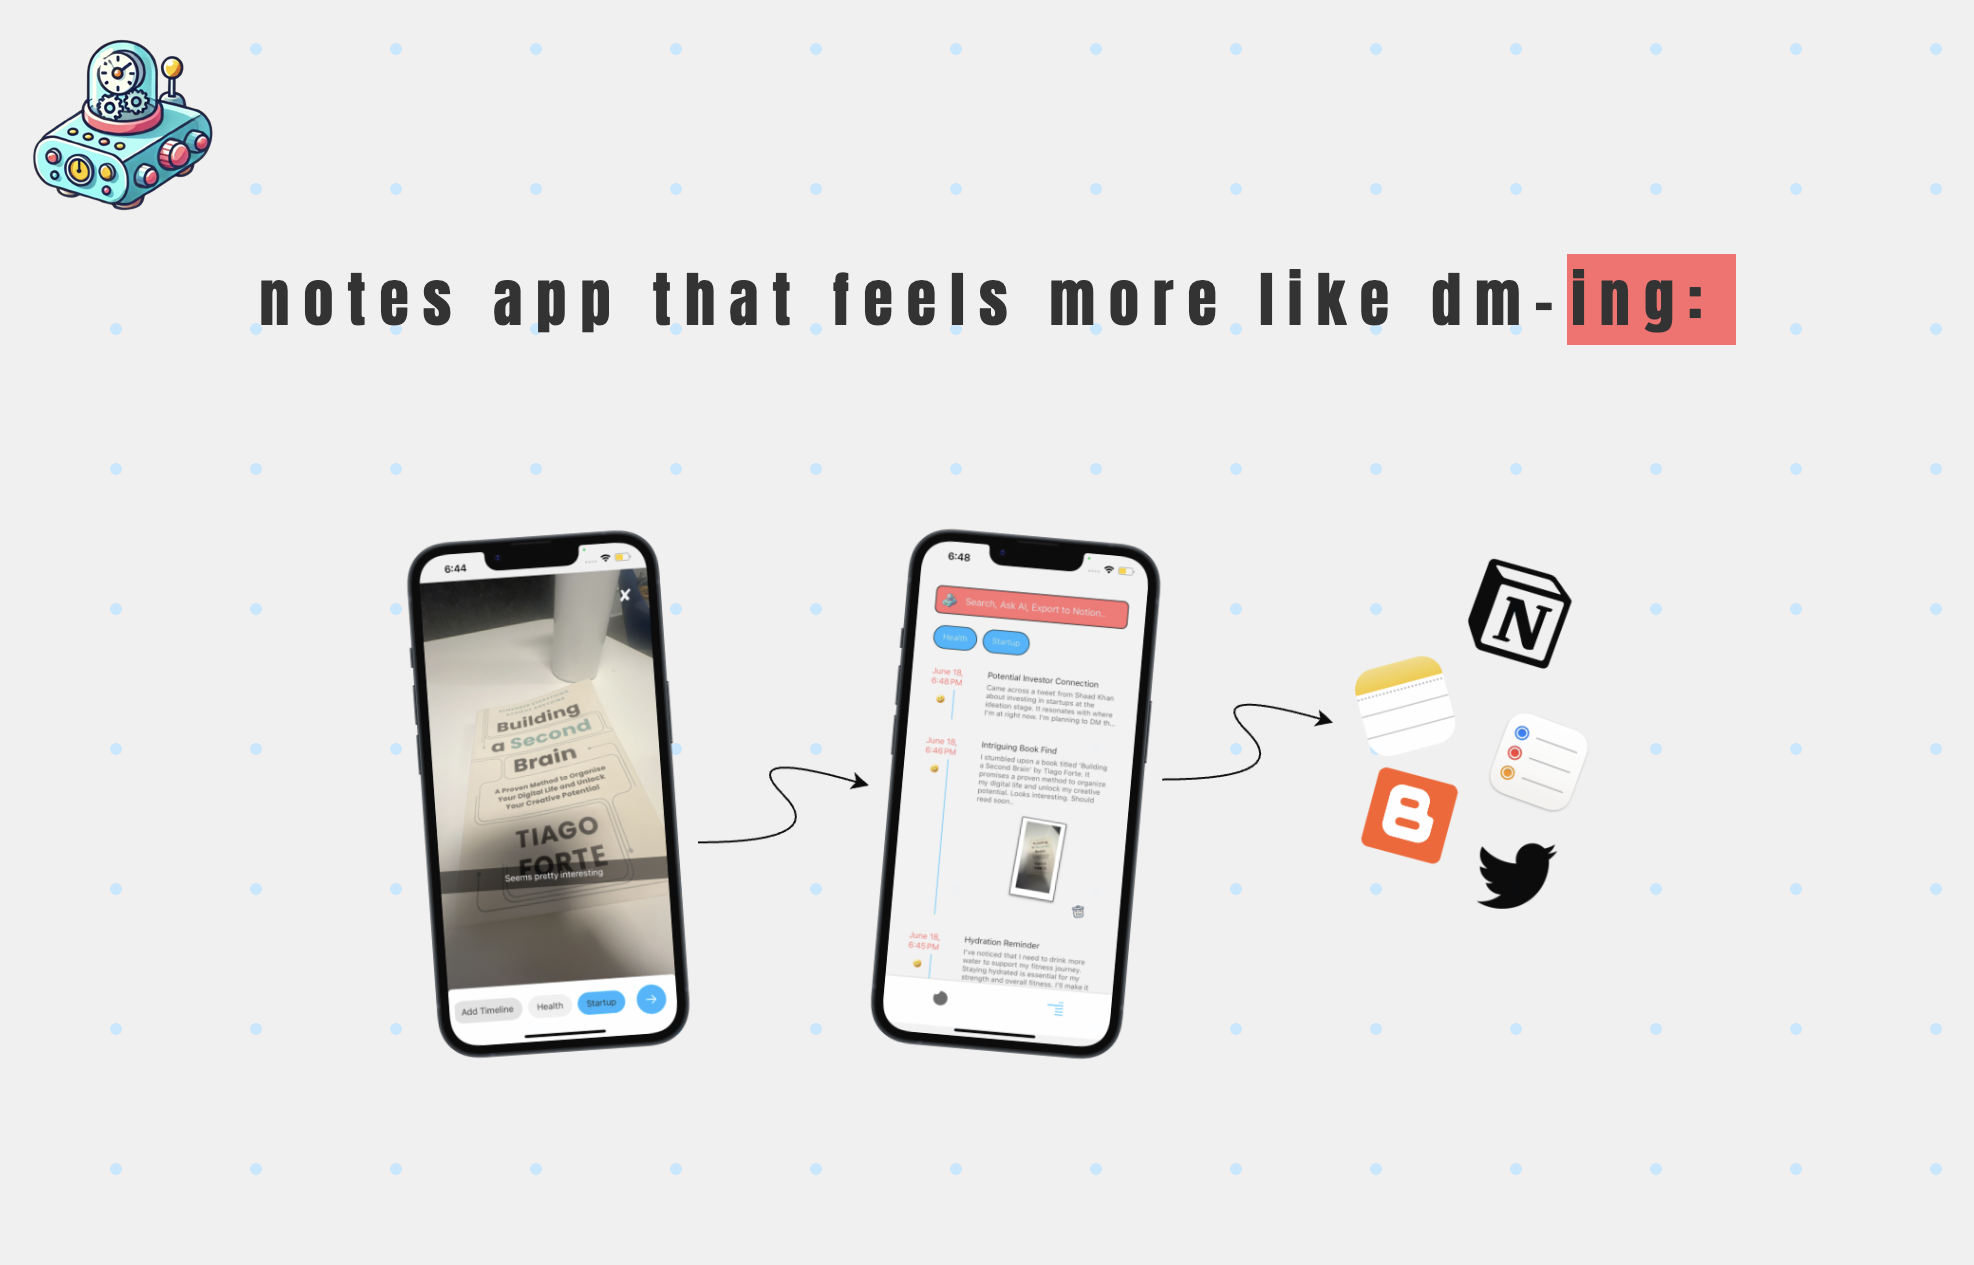
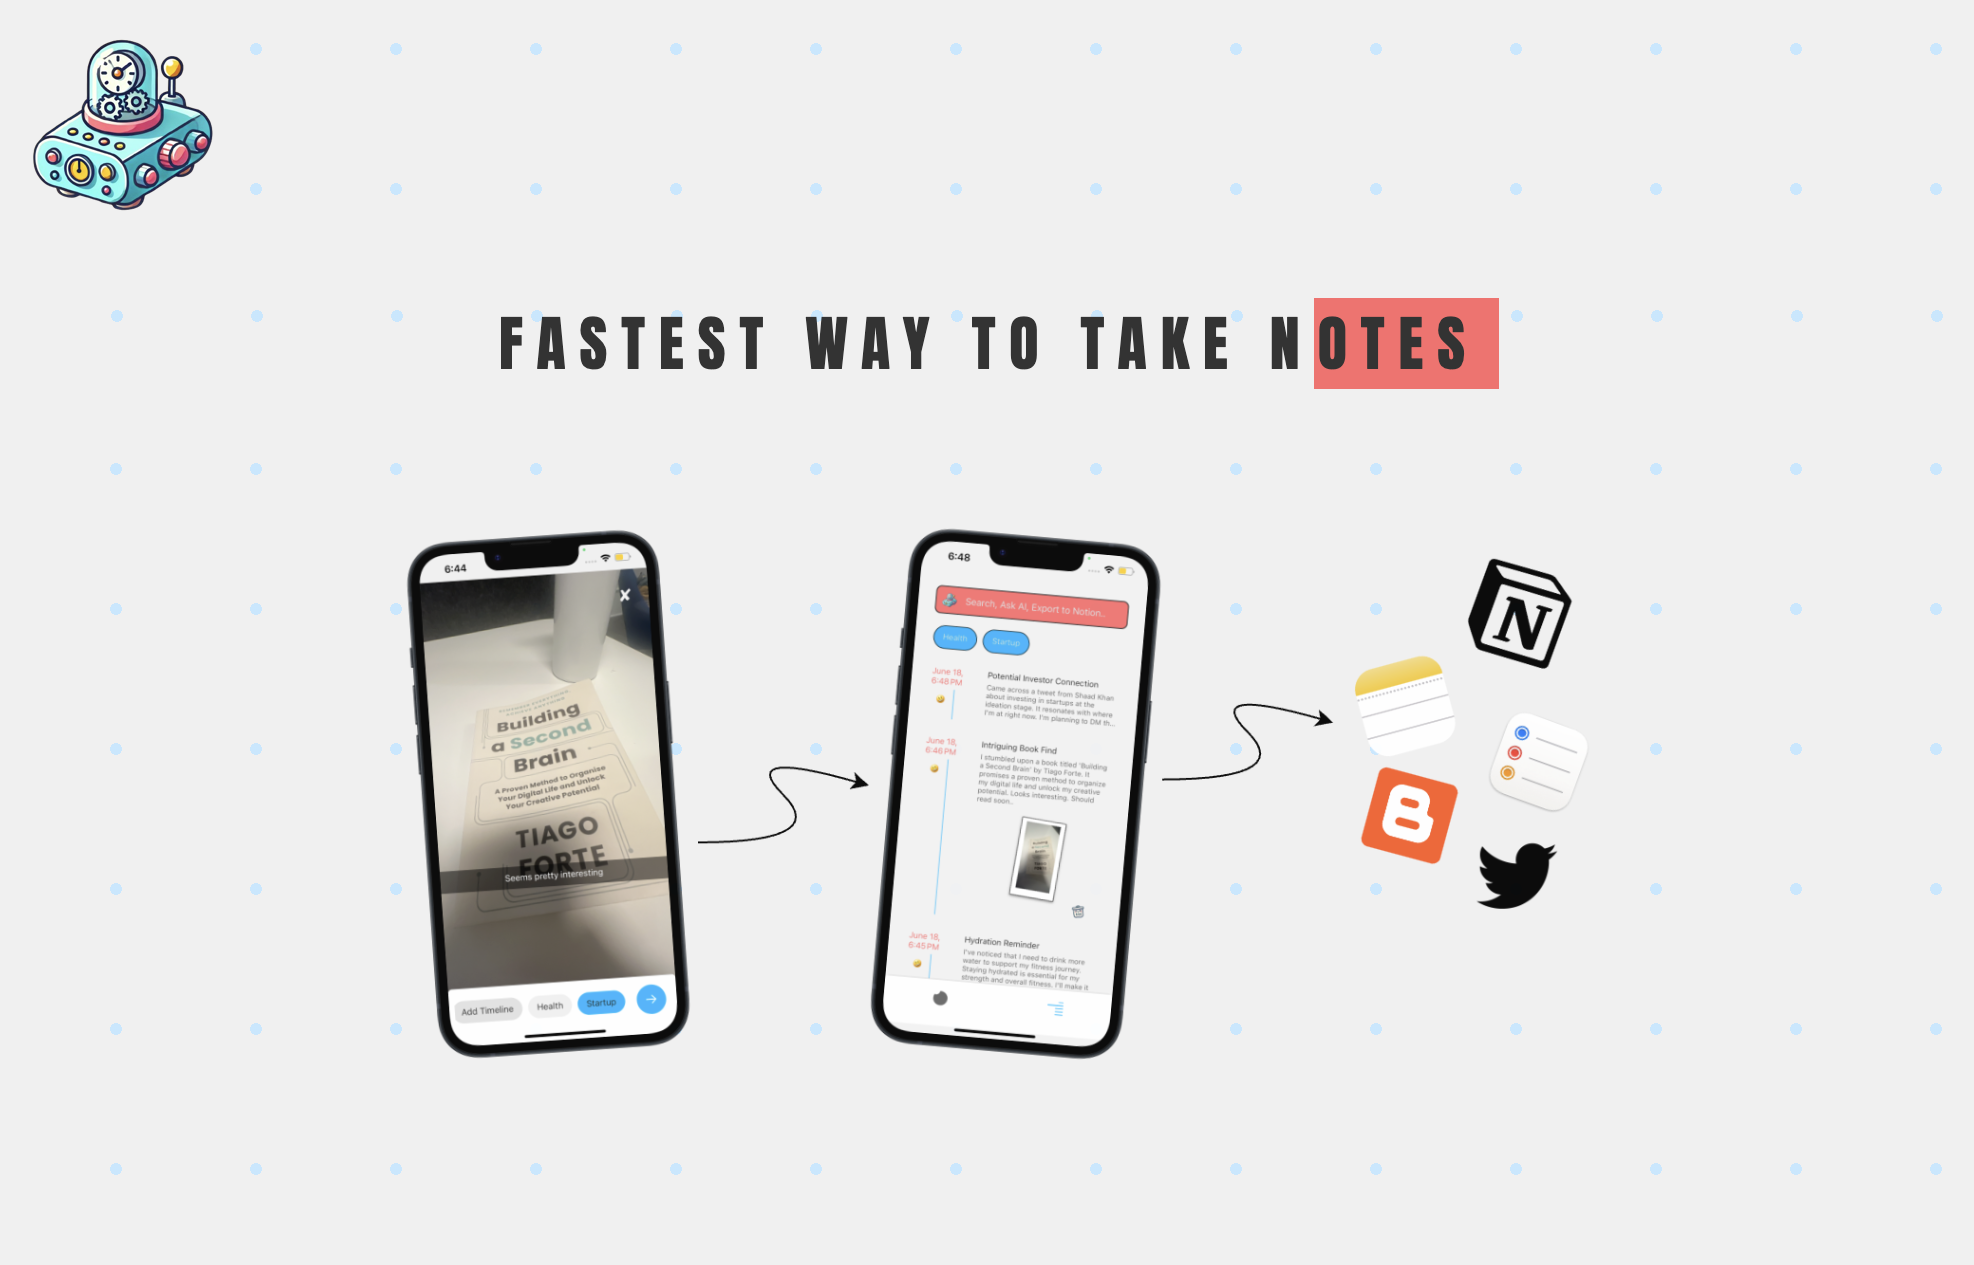
website updates

Changed region(s): [[0.1236, 0.185, 0.8961, 0.3083]]

diff --git a/index.htm b/index.htm
@@ -10,29 +10,29 @@
     <link rel="icon" href="assets/timemachine_icon.png" type="image/x-icon">
 
     <!-- SEO Meta Tags -->
-    <meta name="description" content="time machine is a notes app that feels more like dm-ing. snap your thoughts, get notes and actionable tasks and export to your fav apps. join our waitlist now!">
+    <meta name="description" content="Time Machine: Fastest way to take notes - time machine is a notes app that feels more like dm-ing. snap your thoughts, get notes and actionable tasks and export to your fav apps. join our waitlist now!">
     <meta name="keywords" content="note-taking, ai notes, actionable tasks, productivity, time machine, fast notes, social notes, dm notes">
     <meta name="author" content="time machine">
     
     <!-- Open Graph Meta Tags for social media -->
-    <meta property="og:title" content="time machine: notes app that feels more like dm-ing">
-    <meta property="og:description" content="snap your thoughts, get notes and actionable tasks and export to your fav apps. join our waitlist now!">
+    <meta property="og:title" content="Time Machine: Fastest way to take notes">
+    <meta property="og:description" content="Time Machine: Fastest way to take notes - snap anything, watch it turn into notes and take actions on it. join our waitlist now!">
     <meta property="og:image" content="https://timemachine-app.github.io/assets/metadata_image.png">
     <meta property="og:url" content="https://timemachine-app.github.io">
     <meta property="og:type" content="website">
     
     <!-- Twitter Card Meta Tags -->
     <meta name="twitter:card" content="summary">
-    <meta name="twitter:title" content="time machine: notes app that feels more like dm-ing">
-    <meta name="twitter:description" content="snap your thoughts, get notes and actionable tasks and export to your fav apps. join our waitlist now!">
+    <meta name="twitter:title" content="Time Machine: Fastest way to take notes">
+    <meta name="twitter:description" content="Time Machine: Fastest way to take notes - snap anything, watch it turn into notes and take actions on it. join our waitlist now!">
     <meta name="twitter:image" content="https://timemachine-app.github.io/assets/metadata_image.png">
 </head>
 <body>
     <div class="main-container">
         <img src="assets/timemachine_icon.png" class="logo" />
         <div class="header-container">
-            <span class="title-text">notes app that feels more like dm-<span class="notes-hightlight">ing:</span></span>
-            <span class="action-text">get early access</span>
+            <span class="title-text">fastest way to take n<span class="notes-hightlight">otes</span></span>
+            <span class="action-text">notes app that feels more like sending <span class="action-text-hightlight">dm</span> to yourself</span>
         </div>
         <div class="form-container">
             <form class="signup-form" method="POST" action="https://script.google.com/macros/s/AKfycbwzvPZ2BxBHSlFk4YcVzN-10ZucYHXs9CJ6lC5yhWy17TI-zTx2QCMoAa_9_GhuvEfb/exec" target="hidden_iframe" onsubmit="submitted=true; showLoading();">
@@ -43,7 +43,7 @@
             </form>
             <iframe name="hidden_iframe" id="hidden_iframe" style="display:none;" onload="if(submitted) { hideLoading(); showThankYouMessage(); }"></iframe>
         </div>
-        <div class="additional-text">snap your thoughts - get notes and actionable tasks - export to your fav apps</div>
+        <div class="additional-text">snap anything - watch it turn into notes - take actions on it</div>
         <picture class="concept-container">
                 <source media="(max-width: 480px)" srcset="assets/concept-mobile.png">
                 <source media="(max-width: 768px)" srcset="assets/concept-mobile.png">

diff --git a/styles.css b/styles.css
@@ -32,20 +32,24 @@ body {
     flex-direction: column;
     justify-content: center;
     align-items: center;
-    /* text-transform: uppercase; */
 }
 
 .title-text {
     font-size: 30px;
     letter-spacing: 7px;
     color: #333333;
+    text-transform: uppercase;
 }
 
 .action-text {
-    font-size: 20px;
-    letter-spacing: 7px;
+    font-size: 18px;
+    letter-spacing: 3px;
     color: #333333;
     margin-top: 20px;
+}
+
+.action-text-hightlight {
+    text-decoration: underline;
 }
 
 .notes-hightlight {
